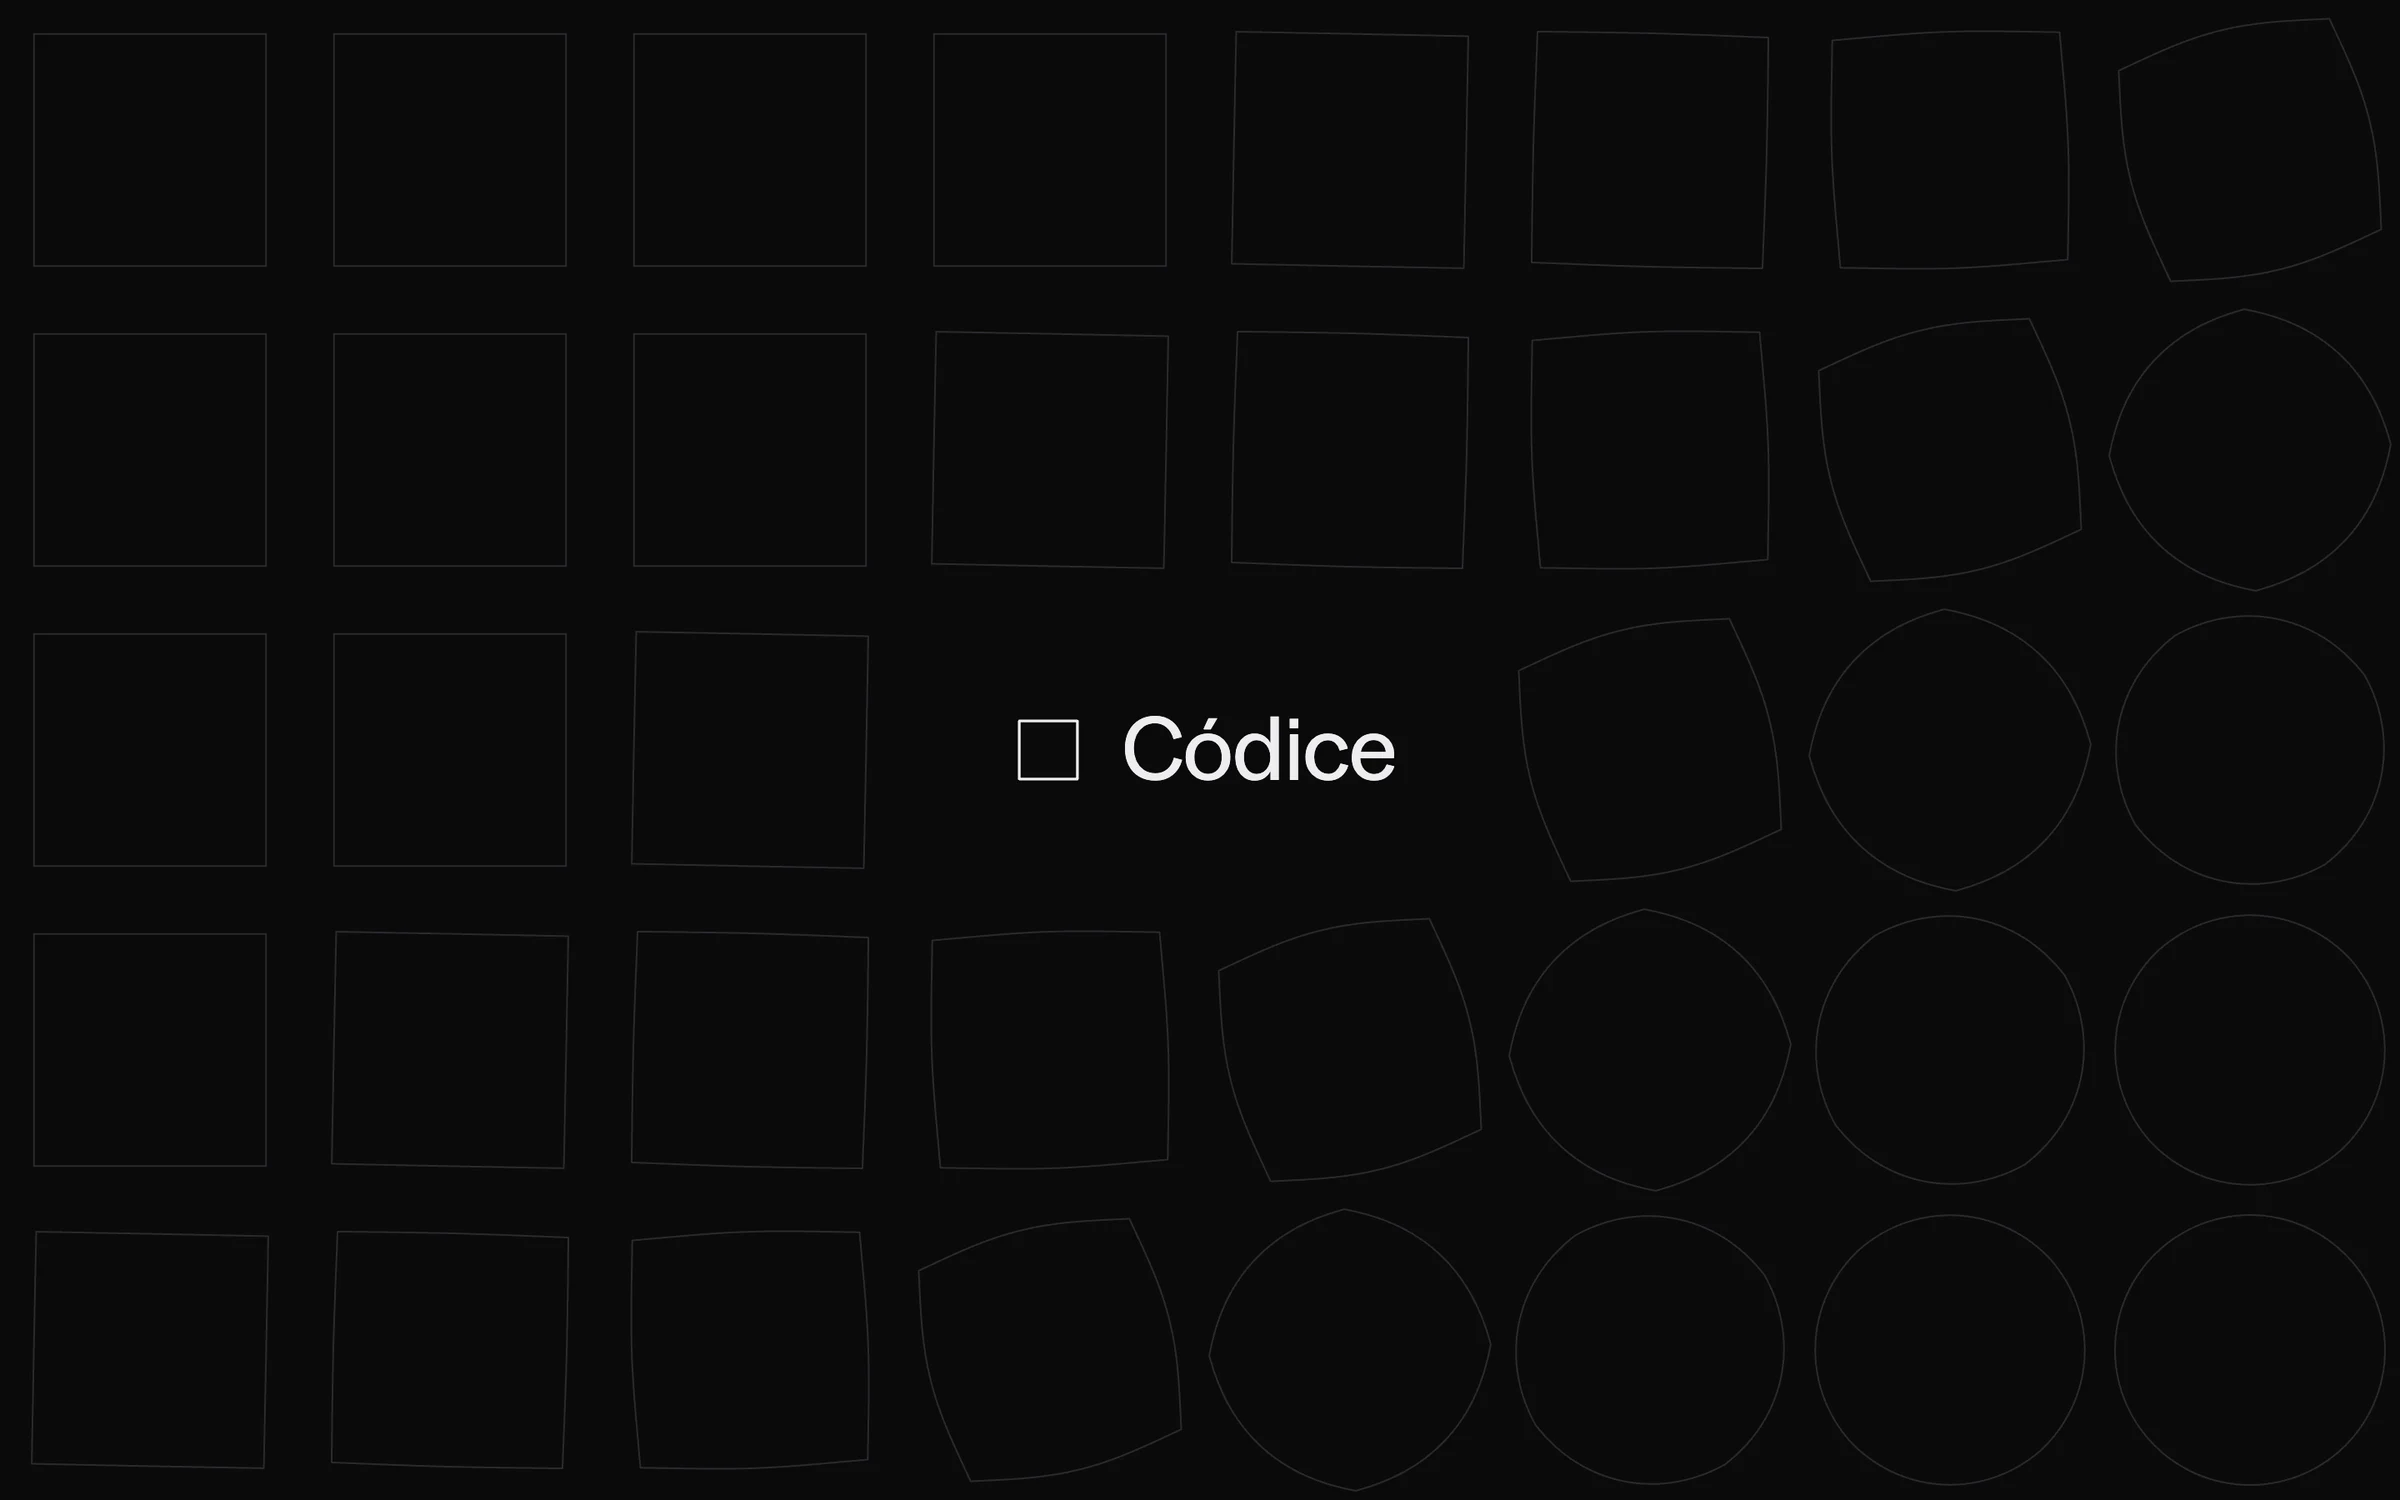
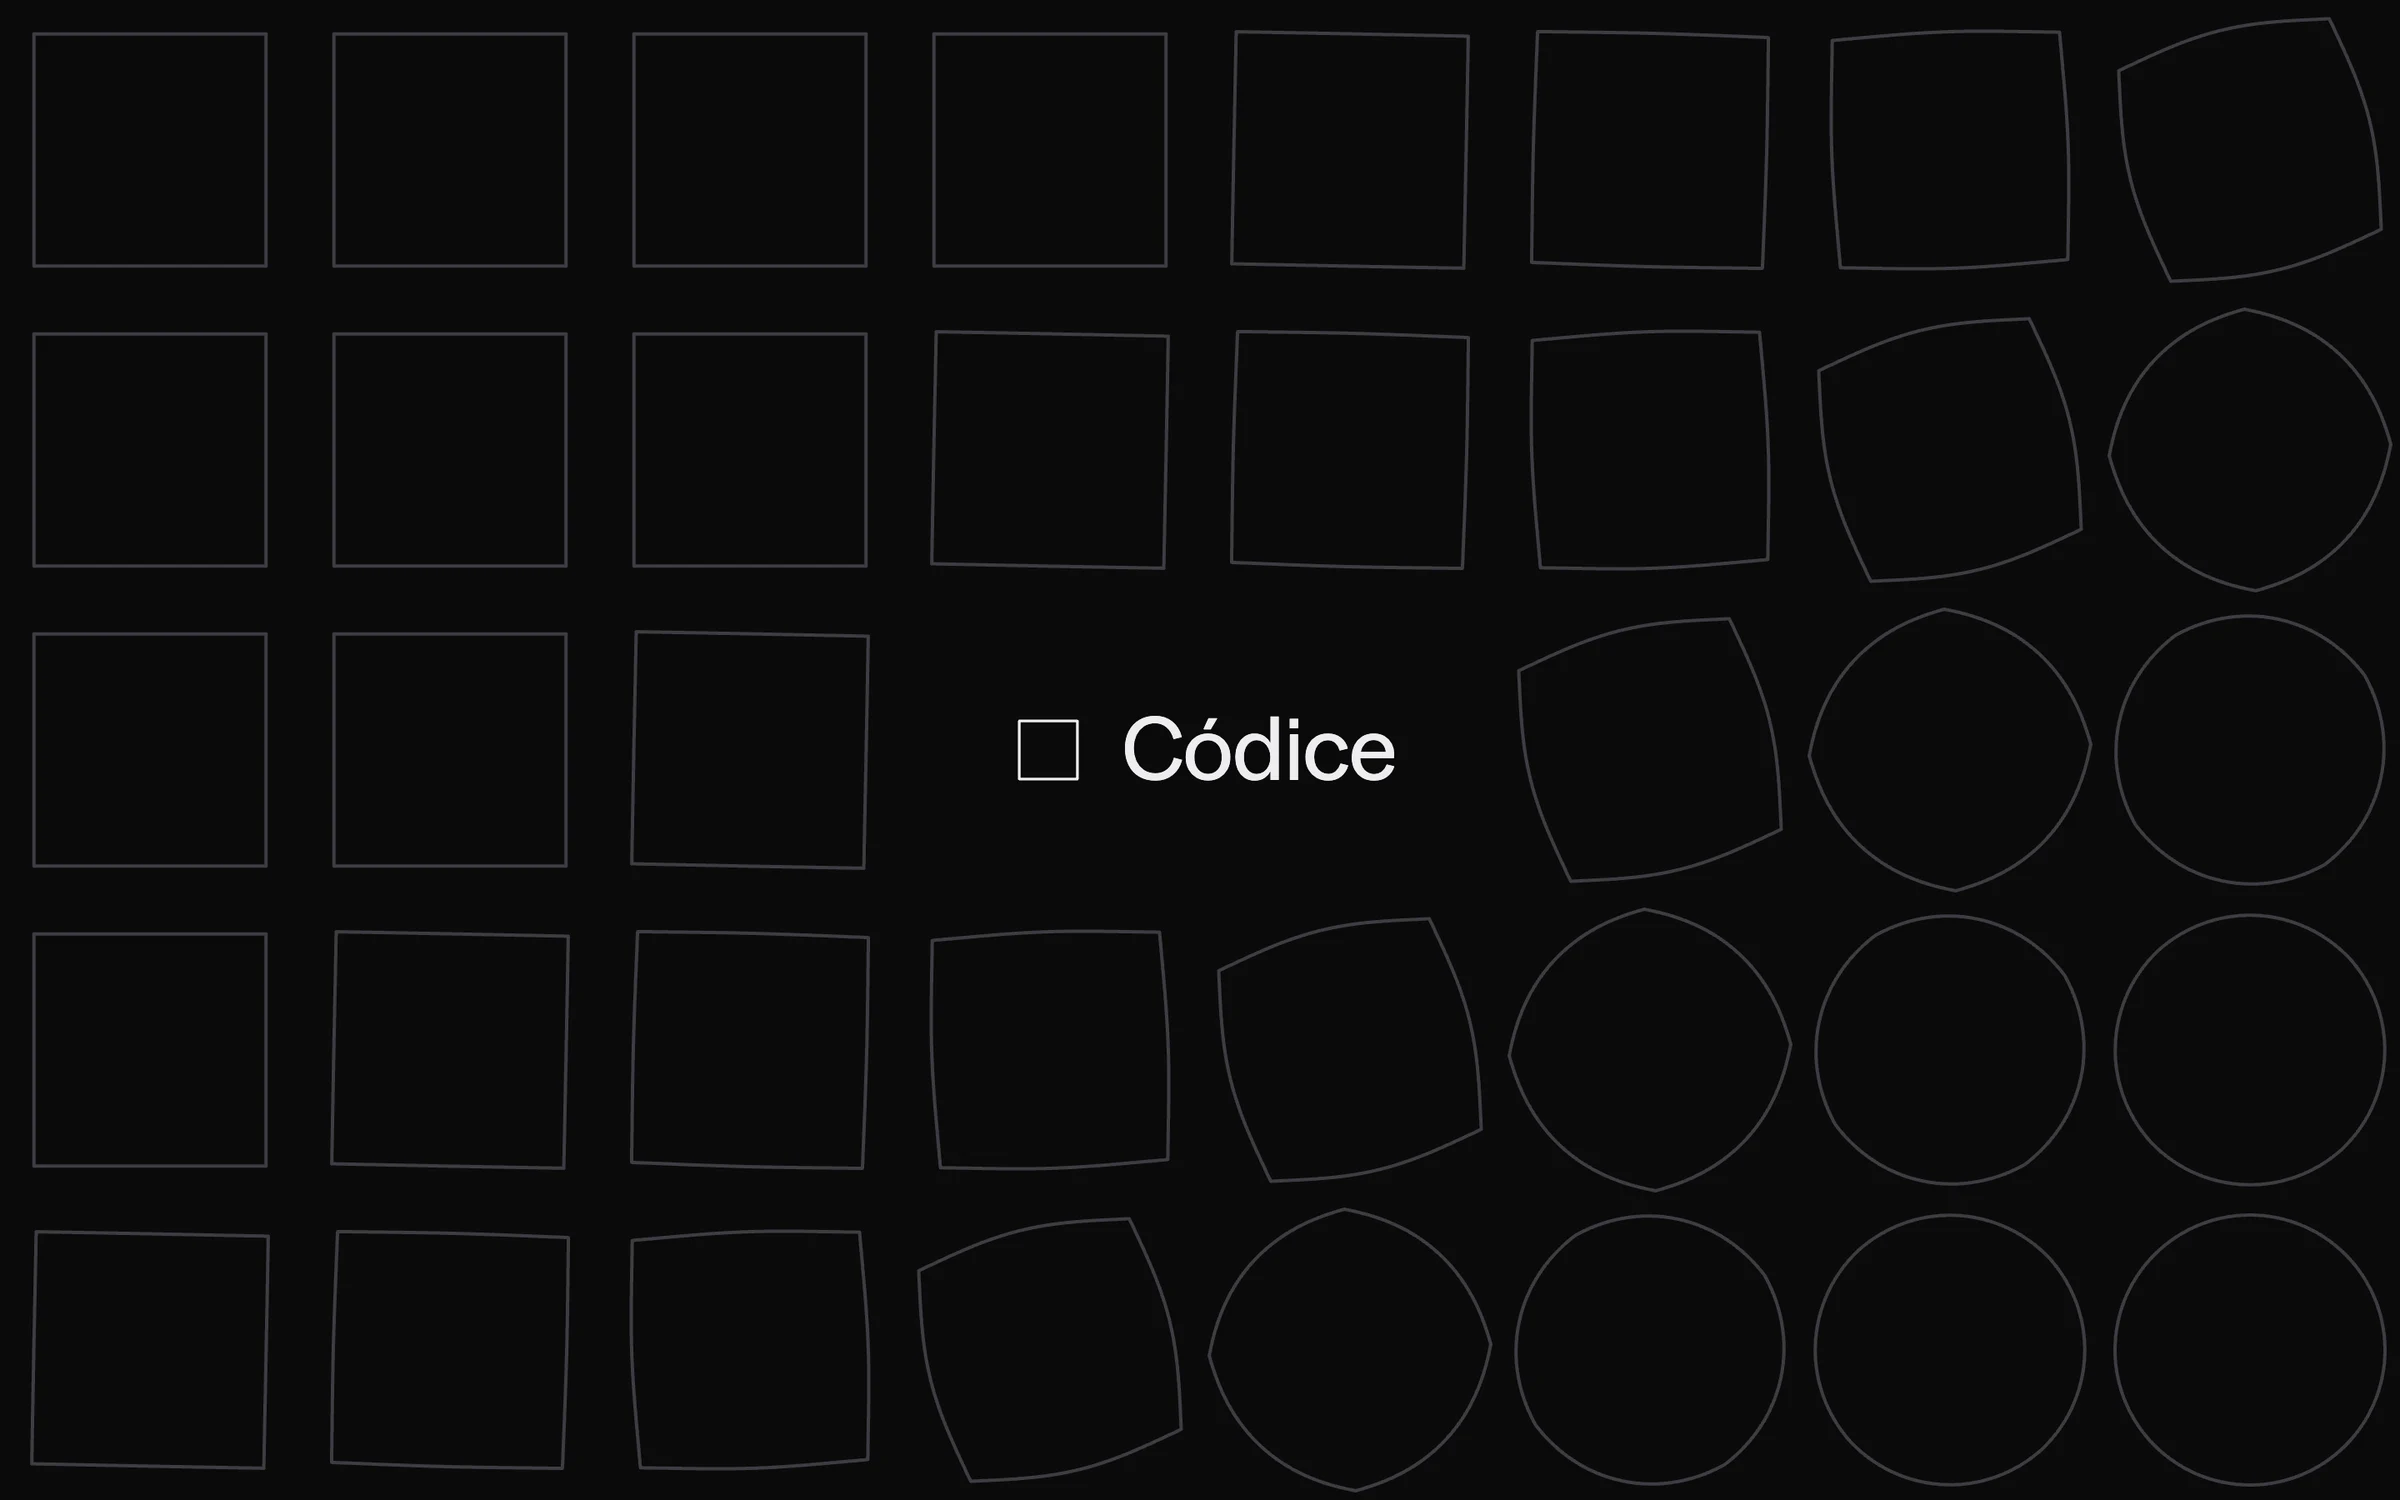
visuals: lines that survive the downscale, brighter hero example

Changed region(s): [[0.4062, 0.9813, 0.4375, 1.0]]

diff --git a/visuals/templates/mark-grid.html b/visuals/templates/mark-grid.html
@@ -18,15 +18,17 @@
         font-family: Brand;
         src: url(brand-font.woff2);
       }
+      /* --line is the grid's stroke: a step lighter than the product's hairline token, so the
+         pattern still reads when the image is shown at 600-700px. */
       :root {
         --ink: #0a0a0b;
         --fg: #ededef;
-        --line: #2a2a2e;
+        --line: #3d3d43;
       }
       html[data-theme="light"] {
         --ink: #e8e8e8;
         --fg: #0a0a0b;
-        --line: #c9c9c9;
+        --line: #b4b4b8;
       }
       html,
       body {
@@ -63,7 +65,7 @@
   <body>
     <!-- The mark, drawn in a 24-unit box with currentColor strokes or fills. -->
     <template id="mark">
-      <rect x="4" y="4" width="16" height="16" fill="none" stroke="currentColor" stroke-width="1" vector-effect="non-scaling-stroke" />
+      <rect x="4" y="4" width="16" height="16" fill="none" stroke="currentColor" stroke-width="2" vector-effect="non-scaling-stroke" />
     </template>
     <svg id="field" fill="none"></svg>
     <div class="name" id="name"><svg viewBox="0 0 24 24" id="lead"></svg><span id="label"></span></div>

diff --git a/visuals/SKILL.md b/visuals/SKILL.md
@@ -38,8 +38,8 @@ shot at 3× and cropped so one subject sits where the eye lands.
    `node <skill>/scripts/frame.mjs shots.json`. Run `npm install` once at the skills repo root
    first. For a public site's live feature (a chat), shoot the live site only if the request
    allows it and the feature is public, and keep it to one or two requests.
-5. **Review every image** at about 1400px wide (`sips -Z 1400` or `magick -resize 1400x`) against
-   the framing rules, fix the spec and reshoot. Done when each one passes all of them.
+5. **Review every image** at about 1400px wide (`sips -Z 1400` or `magick -resize 1400x`) and at
+   its display width (about 680px) against the framing rules, fix the spec and reshoot. Done when each one passes all of them.
 6. **Show the user** the images (send the files) before inserting them anywhere, with one line
    each on what it shows.
 7. **Export** each approved PNG to webp, never upscaled:
@@ -68,6 +68,10 @@ shot at 3× and cropped so one subject sits where the eye lands.
   really returns.
 - **Overlays must not cut text.** If an open menu covers a title, show a tooltip instead or
   change the viewport.
+- **Lines survive the downscale.** Pages show a 2400px image at 600–700px, so hairlines vanish.
+  Draw background patterns at about 2px (at dpr 2) in a tone a step lighter than the product's
+  line token, and check every image at its real display width (`magick -resize 680x`) before
+  calling it done.
 - **Hero graphics align to their grid.** Whole cells, edge gaps equal to inner gaps, and the
   name occupying grid cells. For an animated mark, freeze it mid-transition so the grid shows a
   wave across states (as in `examples/hero-dark.webp`).
